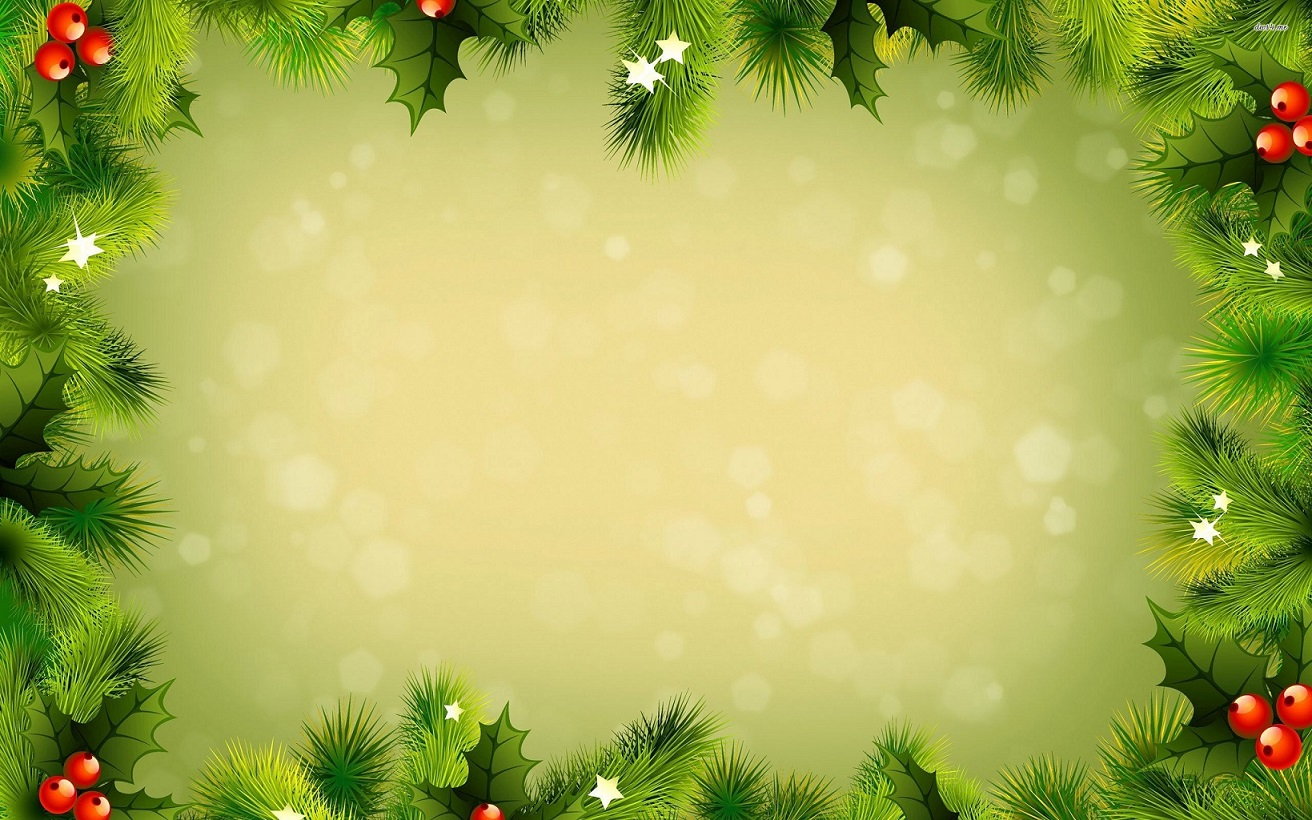
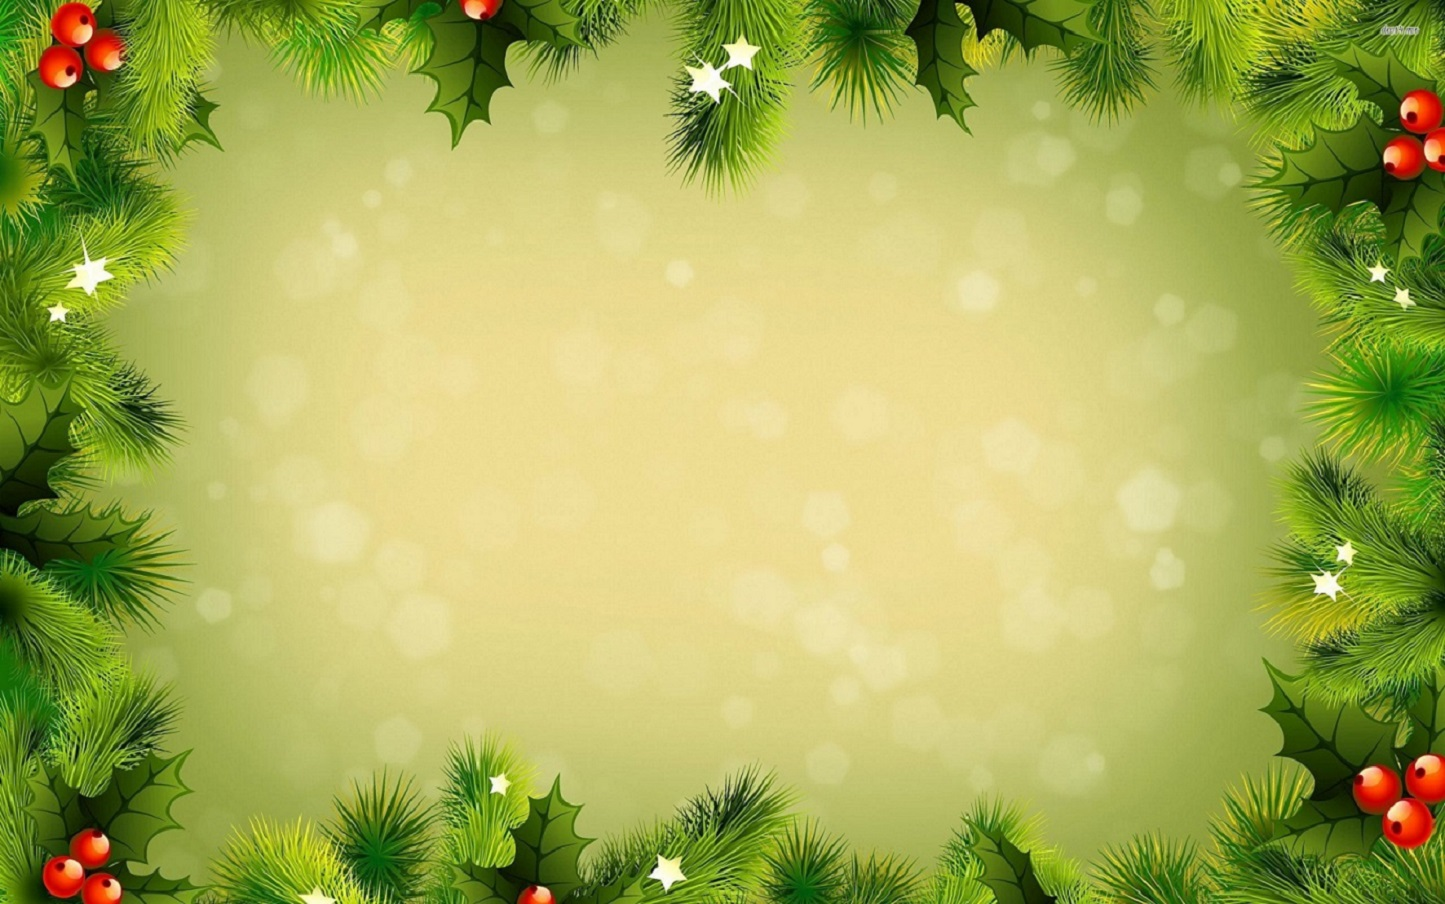
added background

diff --git a/Capstone_Wishlist_app/Content/Custom.css b/Capstone_Wishlist_app/Content/Custom.css
@@ -1,0 +1,14 @@
+.christmas {
+ /*background: url(http://placehold.it/1920x1080) no-repeat center center fixed;*/
+ background: url("../Content/Images/christmas2.jpg") no-repeat center center fixed !important;
+  background-size: cover; 
+}
+
+.plates {
+    background-color: rgba(255,228,196,.85);
+}
+
+.panelBorder {
+  border-color: #C8DBDC !important;
+}
+
